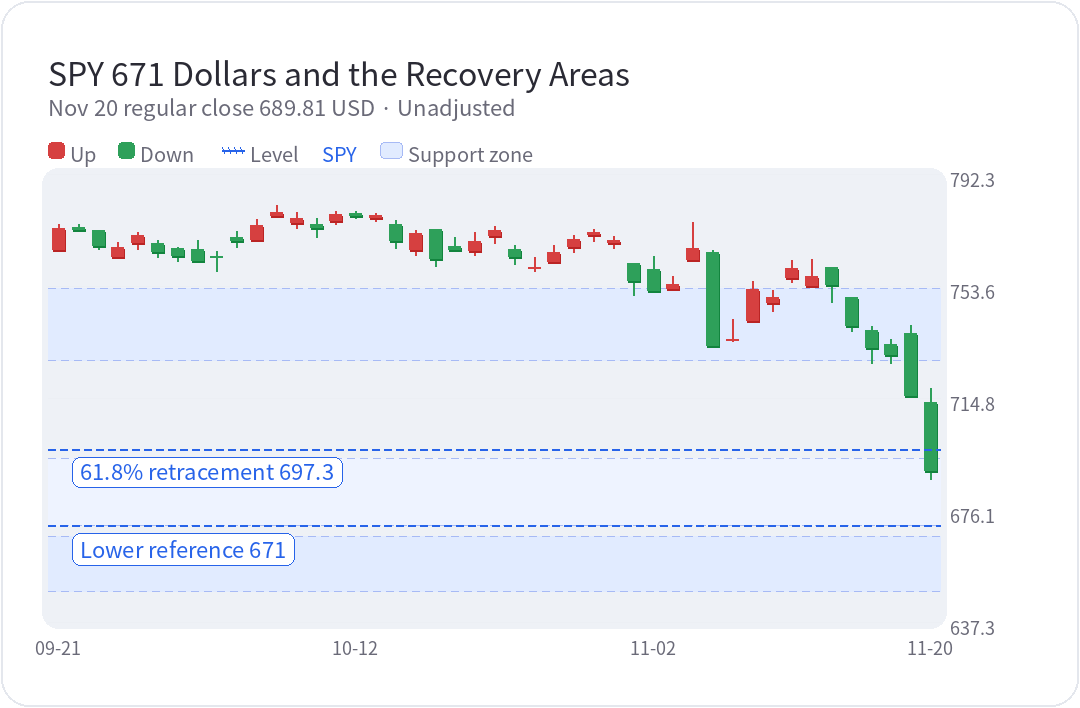
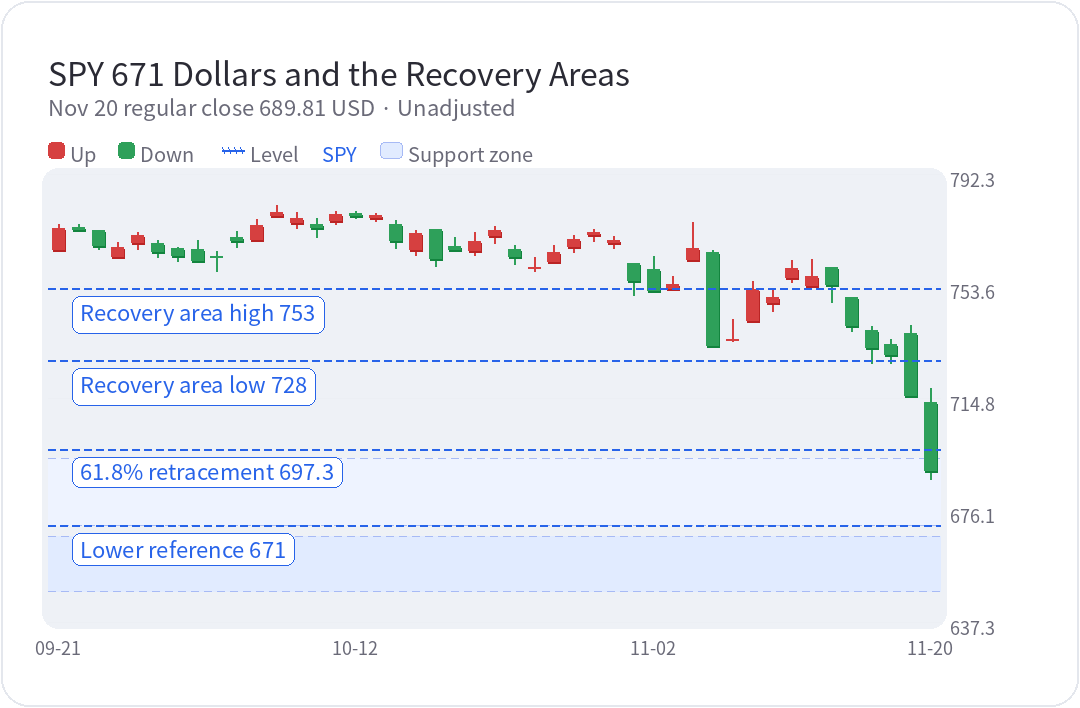
美股日报：标清SPY反弹区间的上下沿

Changed region(s): [[0.0611, 0.404, 0.3056, 0.5593]]

diff --git a/archive/2026-11-20-97000e.md b/archive/2026-11-20-97000e.md
@@ -39,7 +39,7 @@
 跟踪标普500的 **SPY** 收在689.81美元，已经进入671至694美元的观察带，距下沿671美元还有18.81美元，约2.7%。用4月2日最低645.11美元和10月6日最高781.62美元计算，61.8%向下回撤位约697.26美元，周五已经收在它下方。671美元则是接下来用开盘和收盘确认的情景观察位。
 
 ```chart
-{"id":"spy-kline","kind":"kline","ticker":"SPY","interval":"1d","title":"SPY 671美元与反弹观察区","subtitle":"11月20日常规收盘 689.81美元 · 未复权","candles":[{"date":"2026-09-21","o":766.251,"h":774.89,"l":766.03,"c":773.5},{"date":"2026-09-22","o":774.03,"h":775.14,"l":772.57,"c":773.38},{"date":"2026-09-23","o":772.79,"h":773.05,"l":766.5,"c":767.81},{"date":"2026-09-24","o":764.065,"h":768.95,"l":763.245,"c":767.18},{"date":"2026-09-25","o":768.78,"h":772.28,"l":766.29,"c":771.35},{"date":"2026-09-28","o":768.35,"h":769.54,"l":763.715,"c":765.61},{"date":"2026-09-29","o":766.83,"h":766.98,"l":762.35,"c":764.2},{"date":"2026-09-30","o":766.45,"h":769.41,"l":762.18,"c":762.63},{"date":"2026-10-01","o":764.36,"h":765.65,"l":758.79,"c":763.99},{"date":"2026-10-02","o":770.58,"h":772.65,"l":767.145,"c":769.64},{"date":"2026-10-05","o":769.69,"h":776.605,"l":769.63,"c":774.83},{"date":"2026-10-06","o":778.15,"h":781.62,"l":777.96,"c":779.09},{"date":"2026-10-07","o":775.77,"h":779.102,"l":773.61,"c":777.22},{"date":"2026-10-08","o":774.86,"h":777.09,"l":770.435,"c":773.93},{"date":"2026-10-09","o":776.24,"h":779.42,"l":775.14,"c":778.57},{"date":"2026-10-12","o":778.78,"h":779.397,"l":777.05,"c":778.1},{"date":"2026-10-13","o":777.34,"h":778.75,"l":775.95,"c":778.01},{"date":"2026-10-14","o":774.92,"h":776.35,"l":766.71,"c":769.6},{"date":"2026-10-15","o":766.25,"h":772.87,"l":764.43,"c":771.79},{"date":"2026-10-16","o":773.24,"h":773.25,"l":760.64,"c":763.25},{"date":"2026-10-19","o":767.23,"h":770.46,"l":765.824,"c":766.48},{"date":"2026-10-20","o":765.86,"h":772.29,"l":764.25,"c":769.05},{"date":"2026-10-21","o":771.17,"h":774.44,"l":768.4,"c":773.09},{"date":"2026-10-22","o":766.37,"h":767.71,"l":761.165,"c":763.96},{"date":"2026-10-23","o":759.896,"h":763.47,"l":758.68,"c":759.97},{"date":"2026-10-26","o":762.25,"h":767.73,"l":761.63,"c":765.37},{"date":"2026-10-27","o":767.34,"h":771.14,"l":765.21,"c":769.66},{"date":"2026-10-28","o":771.43,"h":773.36,"l":769.24,"c":772.31},{"date":"2026-10-29","o":768.79,"h":770.76,"l":766.62,"c":769.36},{"date":"2026-10-30","o":761.38,"h":761.46,"l":750.36,"c":755.72},{"date":"2026-11-02","o":759.45,"h":763.86,"l":751.6,"c":752.1},{"date":"2026-11-03","o":752.73,"h":757.07,"l":752.39,"c":754.35},{"date":"2026-11-04","o":762.99,"h":775.64,"l":762.64,"c":766.81},{"date":"2026-11-05","o":765.47,"h":765.97,"l":732.71,"c":733},{"date":"2026-11-06","o":734.82,"h":742.21,"l":734.58,"c":735.29},{"date":"2026-11-09","o":741.95,"h":755.42,"l":741.025,"c":752.69},{"date":"2026-11-10","o":747.94,"h":752.139,"l":744.86,"c":749.92},{"date":"2026-11-11","o":756.8,"h":762.51,"l":754.9,"c":759.81},{"date":"2026-11-12","o":753.98,"h":763.04,"l":753.67,"c":757.12},{"date":"2026-11-13","o":760.07,"h":760.12,"l":747.88,"c":754.37},{"date":"2026-11-16","o":749.66,"h":749.82,"l":738.07,"c":739.95},{"date":"2026-11-17","o":738.39,"h":739.76,"l":727,"c":732.44},{"date":"2026-11-18","o":733.37,"h":735.06,"l":726.795,"c":730.2},{"date":"2026-11-19","o":737.46,"h":739.9,"l":715.65,"c":715.87},{"date":"2026-11-20","o":713.56,"h":718.29,"l":686.75,"c":689.81}],"levels":[{"price":671,"label":"下沿观察"},{"price":697.26,"label":"61.8%回撤"}],"zones":[{"low":648,"high":667,"label":"下档情景"},{"low":671,"high":694,"label":"当前观察带"},{"low":728,"high":753,"label":"反弹观察带"}]}
+{"id":"spy-kline","kind":"kline","ticker":"SPY","interval":"1d","title":"SPY 671美元与反弹观察区","subtitle":"11月20日常规收盘 689.81美元 · 未复权","candles":[{"date":"2026-09-21","o":766.251,"h":774.89,"l":766.03,"c":773.5},{"date":"2026-09-22","o":774.03,"h":775.14,"l":772.57,"c":773.38},{"date":"2026-09-23","o":772.79,"h":773.05,"l":766.5,"c":767.81},{"date":"2026-09-24","o":764.065,"h":768.95,"l":763.245,"c":767.18},{"date":"2026-09-25","o":768.78,"h":772.28,"l":766.29,"c":771.35},{"date":"2026-09-28","o":768.35,"h":769.54,"l":763.715,"c":765.61},{"date":"2026-09-29","o":766.83,"h":766.98,"l":762.35,"c":764.2},{"date":"2026-09-30","o":766.45,"h":769.41,"l":762.18,"c":762.63},{"date":"2026-10-01","o":764.36,"h":765.65,"l":758.79,"c":763.99},{"date":"2026-10-02","o":770.58,"h":772.65,"l":767.145,"c":769.64},{"date":"2026-10-05","o":769.69,"h":776.605,"l":769.63,"c":774.83},{"date":"2026-10-06","o":778.15,"h":781.62,"l":777.96,"c":779.09},{"date":"2026-10-07","o":775.77,"h":779.102,"l":773.61,"c":777.22},{"date":"2026-10-08","o":774.86,"h":777.09,"l":770.435,"c":773.93},{"date":"2026-10-09","o":776.24,"h":779.42,"l":775.14,"c":778.57},{"date":"2026-10-12","o":778.78,"h":779.397,"l":777.05,"c":778.1},{"date":"2026-10-13","o":777.34,"h":778.75,"l":775.95,"c":778.01},{"date":"2026-10-14","o":774.92,"h":776.35,"l":766.71,"c":769.6},{"date":"2026-10-15","o":766.25,"h":772.87,"l":764.43,"c":771.79},{"date":"2026-10-16","o":773.24,"h":773.25,"l":760.64,"c":763.25},{"date":"2026-10-19","o":767.23,"h":770.46,"l":765.824,"c":766.48},{"date":"2026-10-20","o":765.86,"h":772.29,"l":764.25,"c":769.05},{"date":"2026-10-21","o":771.17,"h":774.44,"l":768.4,"c":773.09},{"date":"2026-10-22","o":766.37,"h":767.71,"l":761.165,"c":763.96},{"date":"2026-10-23","o":759.896,"h":763.47,"l":758.68,"c":759.97},{"date":"2026-10-26","o":762.25,"h":767.73,"l":761.63,"c":765.37},{"date":"2026-10-27","o":767.34,"h":771.14,"l":765.21,"c":769.66},{"date":"2026-10-28","o":771.43,"h":773.36,"l":769.24,"c":772.31},{"date":"2026-10-29","o":768.79,"h":770.76,"l":766.62,"c":769.36},{"date":"2026-10-30","o":761.38,"h":761.46,"l":750.36,"c":755.72},{"date":"2026-11-02","o":759.45,"h":763.86,"l":751.6,"c":752.1},{"date":"2026-11-03","o":752.73,"h":757.07,"l":752.39,"c":754.35},{"date":"2026-11-04","o":762.99,"h":775.64,"l":762.64,"c":766.81},{"date":"2026-11-05","o":765.47,"h":765.97,"l":732.71,"c":733},{"date":"2026-11-06","o":734.82,"h":742.21,"l":734.58,"c":735.29},{"date":"2026-11-09","o":741.95,"h":755.42,"l":741.025,"c":752.69},{"date":"2026-11-10","o":747.94,"h":752.139,"l":744.86,"c":749.92},{"date":"2026-11-11","o":756.8,"h":762.51,"l":754.9,"c":759.81},{"date":"2026-11-12","o":753.98,"h":763.04,"l":753.67,"c":757.12},{"date":"2026-11-13","o":760.07,"h":760.12,"l":747.88,"c":754.37},{"date":"2026-11-16","o":749.66,"h":749.82,"l":738.07,"c":739.95},{"date":"2026-11-17","o":738.39,"h":739.76,"l":727,"c":732.44},{"date":"2026-11-18","o":733.37,"h":735.06,"l":726.795,"c":730.2},{"date":"2026-11-19","o":737.46,"h":739.9,"l":715.65,"c":715.87},{"date":"2026-11-20","o":713.56,"h":718.29,"l":686.75,"c":689.81}],"levels":[{"price":671,"label":"下沿观察"},{"price":697.26,"label":"61.8%回撤"},{"label":"反弹区下沿","price":728},{"label":"反弹区上沿","price":753}],"zones":[{"low":648,"high":667,"label":"下档情景"},{"low":671,"high":694,"label":"当前观察带"}]}
 ```
 
 如果开盘或收盘有效跌破671美元，接下来先看648至667美元区间能否接住卖盘，随后再看反弹能不能站回671美元。若反弹后又跌破648美元，下行风险会进一步增大。若低位稳住并出现持续买盘，则可观察728至753美元能否收复。这个区域包含约732.76美元的未复权200日均线。按分红调整后的口径，200日均线约730.29美元。指数估值处于6800至7000点的情景区间时，盈利预期若继续下修，价格依然可以往下找买盘。
